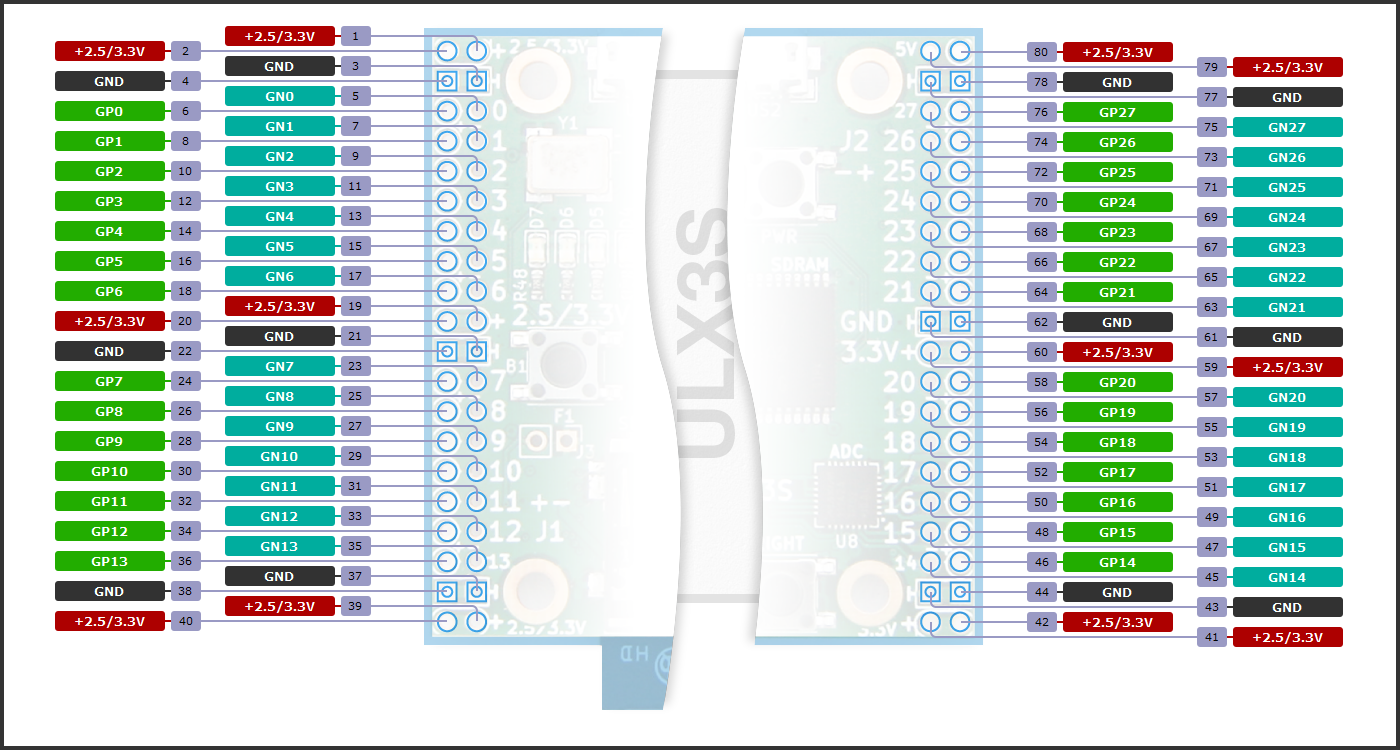
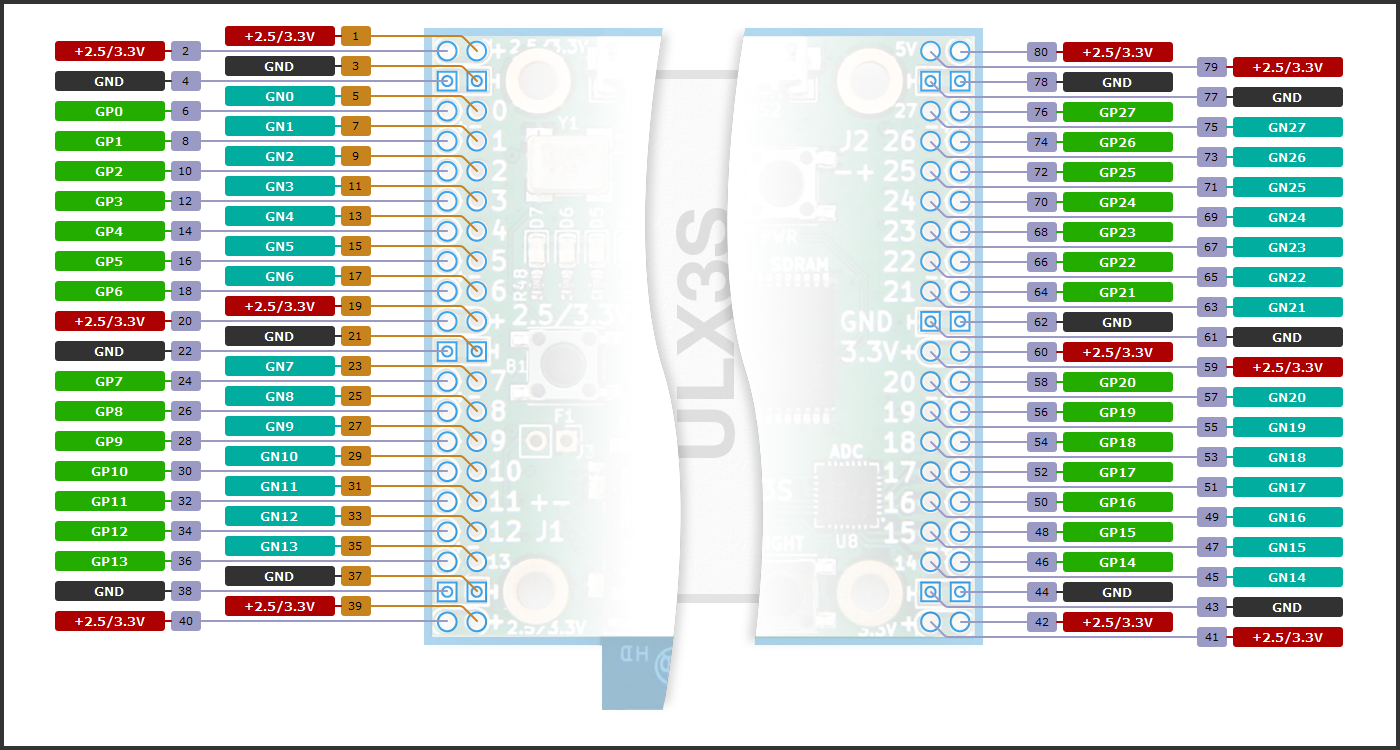
test alt leaderlines

diff --git a/styles.css b/styles.css
@@ -7,6 +7,7 @@ text {
 .pinlabel__leader{
     stroke-width: 2;
     fill: none;
+    stroke-linecap: round;
 }
 
 .pinlabel__text{
@@ -119,6 +120,18 @@ text {
     font-weight: normal;
     font-size: 11px;
 }
+
+
+.pinid.inner .pinlabel__body{
+    fill: rgb(199, 131, 29);
+}
+.pinid.inner .pinlabel__leader{
+    stroke: rgb(199, 131, 29);
+}
+.pinid.inner .swatch__body {
+    fill: rgb(199, 131, 29);
+}
+
 
 .panel__inner {
     fill: #fff;

diff --git a/pinout_ulx3s_v2.py b/pinout_ulx3s_v2.py
@@ -60,6 +60,7 @@ graphic.add(
         label_pitch=(0, -30),
         scale=(1, 1),
         labels=data.rhs_outer_numbered,
+        leaderline=lline.Diagonal(direction="vh"),
     )
 )
 graphic.add(
@@ -72,7 +73,7 @@ graphic.add(
         label_pitch=(0, -30),
         scale=(1, 1),
         labels=data.rhs_inner_numbered,
-        leaderline=lline.Curved(direction="vh"),
+        leaderline=lline.Diagonal(direction="vh"),
     )
 )
 
@@ -87,7 +88,7 @@ graphic.add(
         label_pitch=(0, -30),
         scale=(-1, -1),
         labels=data.lhs_inner_numbered,
-        leaderline=lline.Curved(direction="vh"),
+        leaderline=lline.Diagonal(direction="vh"),
     )
 )
 graphic.add(
@@ -100,6 +101,7 @@ graphic.add(
         label_pitch=(0, 30),
         scale=(-1, 1),
         labels=data.lhs_outer_numbered,
+        leaderline=lline.Diagonal(direction="vh"),
     )
 )
 

diff --git a/data.py b/data.py
@@ -73,7 +73,7 @@ lhs_inner_numbered = [
     [
         (
             f"{i * 2 + 1 }",
-            "pinid",
+            "pinid inner",
             {"body": {"width": 30, "height": 20}},
         )
     ]
